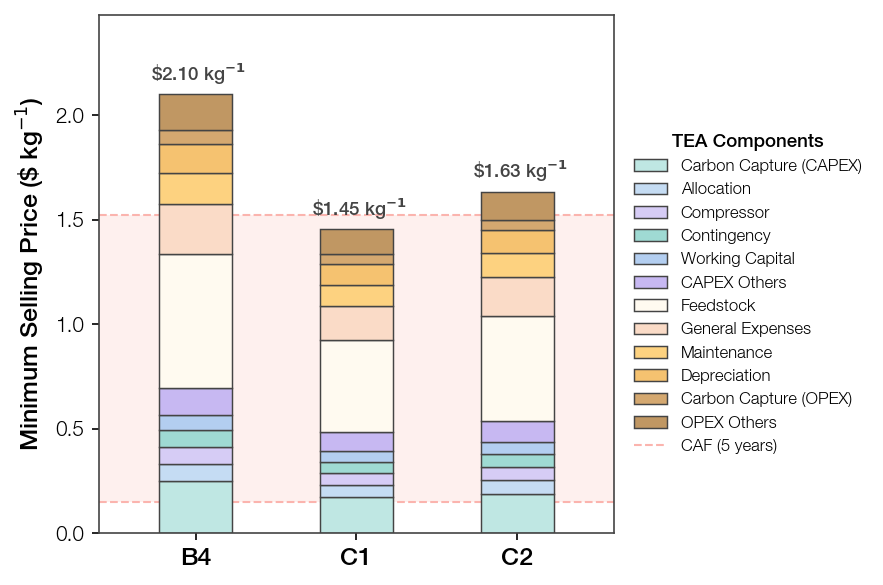
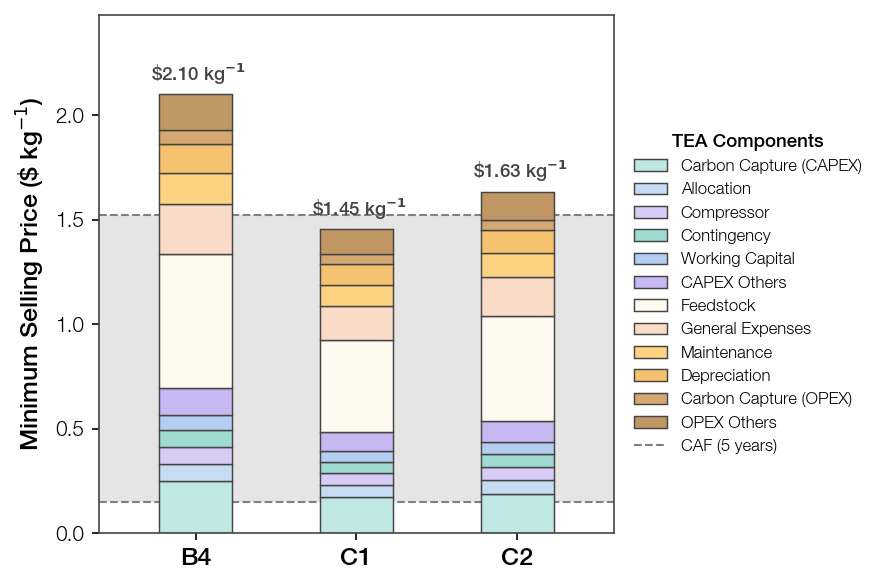
TEA in a single bar

Changed region(s): [[0.2446, 0.3385, 0.5504, 0.8615], [0.6116, 0.3692, 0.7033, 0.8615], [0.0917, 0.3692, 0.1835, 0.8615]]

diff --git a/drHa_analysis.py b/drHa_analysis.py
@@ -339,10 +339,10 @@ for label in ax.get_xticklabels():
 
 # Highlight the conventional method's metric range
 caf_msp = ax.axhspan(msp_caf[0], msp_caf[1],
-                     facecolor='#FBB4AE', alpha=0.2, lw=0, zorder=0, label='CAF (5 years)')
+                     facecolor='gray', alpha=0.2, lw=0, zorder=0, label='CAF (5 years)')
 
 for val in msp_caf:
-    caf_border = ax.axhline(val, color='#FBB4AE', lw=1, linestyle='--', zorder=0, label='CAF (5 years)')
+    caf_border = ax.axhline(val, color='gray', lw=1, linestyle='--', zorder=0, label='CAF (5 years)')
 
 ax.set_xlim(-0.6, len(scenarios) - 0.4)
 top = summary.loc[scenarios].sum(axis=1).max() * 1.18
